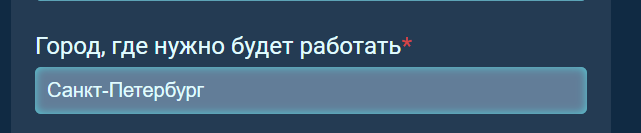
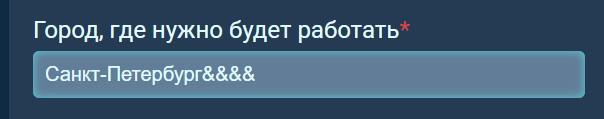
corrections with my fault + some more

Changed region(s): [[0.0298, 0.1765, 0.9834, 0.8571], [0.0596, 0.5546, 0.447, 0.7563], [0.0596, 0.0, 0.9238, 0.0252]]

diff --git a/FullStack-Overflow(ers).md b/FullStack-Overflow(ers).md
@@ -902,11 +902,13 @@ png, jpg или jpeg размером меньше 20 Мбайт.
 10. Input "Описание вакансии" позволяет ввести любой текст.  
 ![alt text](img/vacancy_page/description.png)
 
-11. Input "Должность" позволяет ввести любой текст.  
+11. Input "Должность" позволяет ввести любую строку.  
 ![alt text](img/vacancy_page/position.png)
 
-12. Input "Город, где нужно будет работать" позволяет ввести любой текст.  
-![alt text](img/vacancy_page/city.png)
+12. Input "Город, где нужно будет работать" валидируется согласно [правилам валидации](#правила-валидации) для города
+
+>  $\text{\color{red}Баг}$ на самом деле валидации не происходит  
+> ![alt text](img/vacancy_page/city.png)
 
 13. Должна быть кнопка сохранить - сохраняющая изменения.
 14. Должна быть кнопка в профиль - отменяющая изменения и перенаправляющая [в профиль](https://uart.site/me?from=vacancyList).
